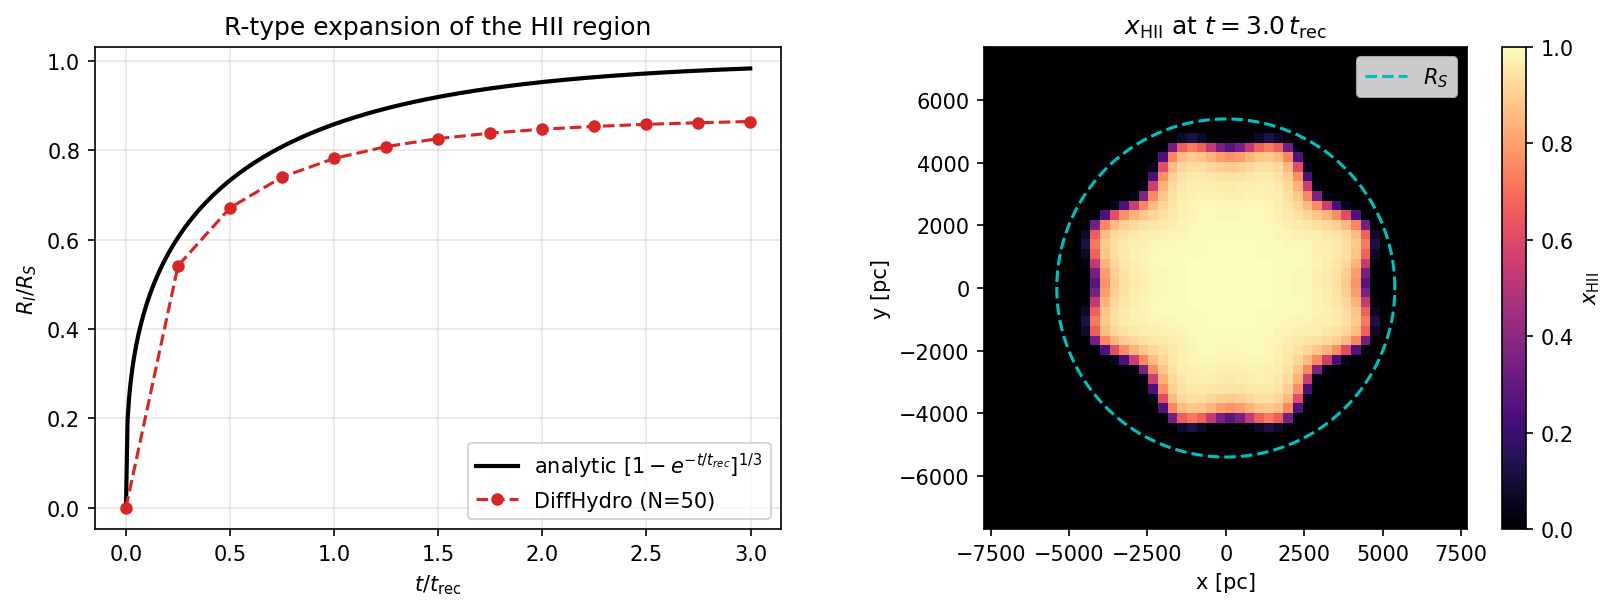
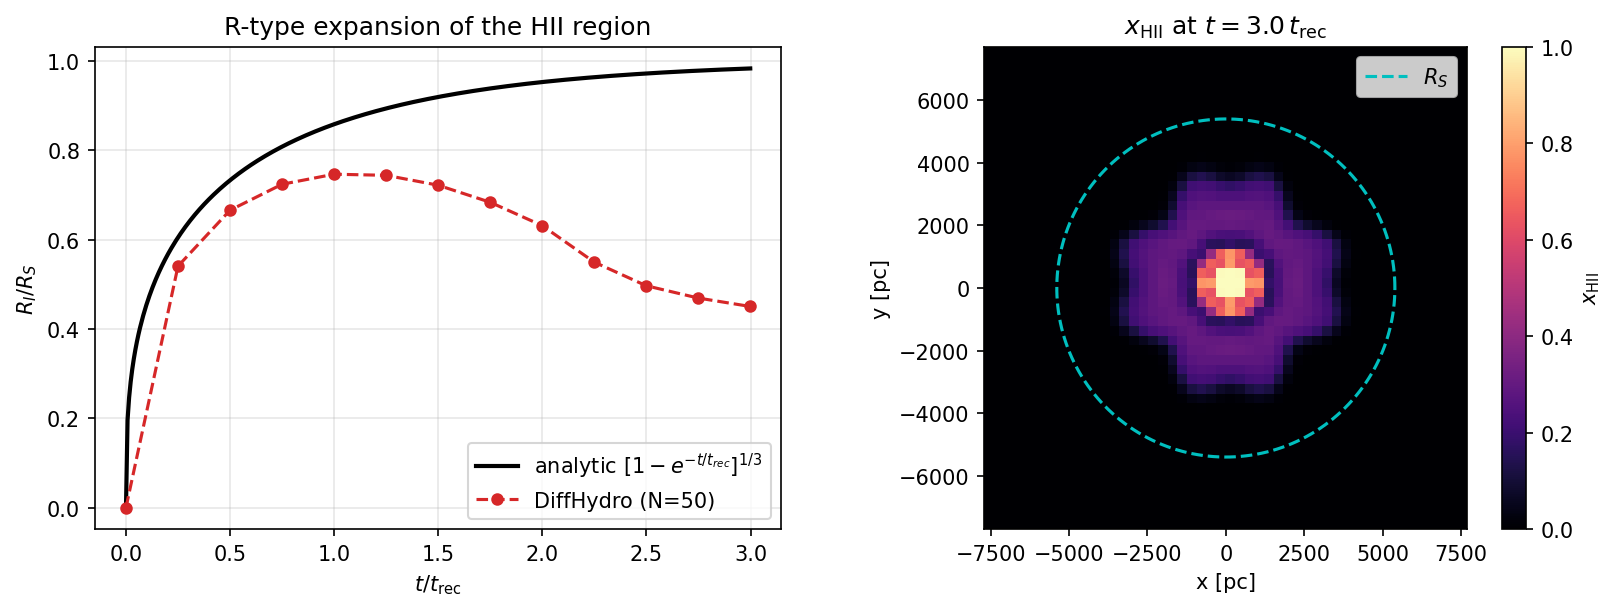
before gros changement avec le chat

diff --git a/diffhydro/physics/fraction_xHII.py b/diffhydro/physics/fraction_xHII.py
@@ -119,8 +119,153 @@ class HydrogenIonizationForce:
         return view.set_xHII(sol, x_new), params
 
 
+# class HydrogenPhotoChemistryForce:
+    # """Photon-CONSERVING coupled update of (N_gamma, F_gamma, x_HII).
+
+    # Why this exists
+    # ---------------
+    # Splitting the photon sink (in ``StellarRadiationForce.force``) from the
+    # ionization update (in :class:`HydrogenIonizationForce`) makes the result
+    # depend on the order of ``forces=[...]``: the sink runs first, so the
+    # ionization then reads an already-depleted N and produces fewer
+    # ionizations than the number of photons that were destroyed. The error is
+    # O(n_HI sigma c dt) and does NOT vanish with grid refinement, because
+    # refining the grid also refinexHII_weighted=True,s dt at fixed CFL only linearly while the
+    # absorption per cell stays optically thick. Measured on the Iliev+2006
+    # Test 1 setup it costs ~10 % on the ionization front radius.
+
+    # This force instead enforces, per step and per cell, the bookkeeping
+    # identity "one absorbed photon = one ionization":
+
+    #     N_abs   = N [1 - exp(-n_HI sigma c dt)]     photons actually absorbed
+    #     dx      = N_abs / n_H                        + collisional - recombination
+    #     N      -= N_abs (capped so dx cannot exceed 1 - x; the photons that
+    #               would have over-ionized the cell are NOT destroyed)
+    #     F      *= exp(-n_HI sigma c dt)              eq. (26')
+
+    # Use it INSTEAD of the (StellarRadiationForce chemistry sink +
+    # HydrogenIonizationForce) pair, i.e. build the stellar force with
+    # ``chemistry=False`` so it only injects photons.
+    # """
+
+    # def __init__(
+    #     self,
+    #     stellar_force,
+    #     case: str = "B",
+    #     collisional: bool = True,
+    #     b_rec: float | None = None,
+    #     max_frac: float = 0.9,
+    #     frequency: float = hchem.NU_HI_CGS,
+    #     f_max: float | None = None,
+    #     view: HydrogenStateView | None = None,
+    # ):
+    #     self.sf = stellar_force
+    #     self.case = case.upper()
+    #     self.collisional = bool(collisional)
+    #     self.b_rec = (1.0 if self.case == "A" else 0.0) if b_rec is None else float(b_rec)
+    #     self.max_frac = float(max_frac)
+    #     self.view = view if view is not None else _view_from_stellar_force(stellar_force)
+    #     self.sigma_HI_cgs = float(
+    #         hchem.sigma_HI_powerlaw_cgs(nu=frequency, nu0=hchem.NU_HI_CGS)
+    #     )
+    #     self.f_max = getattr(stellar_force, "beam_reduced_flux", 0.95) if f_max is None else f_max
+
+    # def alpha_HII(self, T_K):
+    #     return (hchem.alpha_A_HII_cgs(T_K) if self.case == "A"
+    #             else hchem.alpha_B_HII_cgs(T_K))
+
+    # def timestep(self, sol):
+    #     return jnp.inf
+
+    # def force(self, i, sol, params, dt):
+    #     view = self.view
+    #     dt_s = view.dt_cgs(dt)
+    #     c_cgs = view.c_interaction_cgs
+
+    #     x = view.xHII(sol)
+    #     T_K = view.temperature_K(sol, x)
+    #     n_H, n_HI, n_HII, n_e = view.number_densities_cgs(sol, x)
+    #     N_cgs = view.photon_density_cgs(sol)
+
+    #     # --- absorbed photons over dt (exact for a frozen n_HI) -----------
+    #     # The requested "at most 90 % of N per step" limiter is applied HERE,
+    #     # to the absorption itself, so that the photon budget removed from N
+    #     # and the ionizations produced from it stay exactly equal (applying
+    #     # it afterwards to dN would destroy that identity).
+    #     k = n_HI * self.sigma_HI_cgs * c_cgs                  # s^-1
+    #     absorbed_frac = jnp.minimum(-jnp.expm1(-k * dt_s), self.max_frac)
+    #     N_abs = N_cgs * absorbed_frac
+
+    #     # --- ionizations that these photons can actually produce ----------
+    #     n_H_safe = jnp.maximum(n_H, hchem.tiny_like(sol))
+    #     dx_photo_wanted = N_abs / n_H_safe
+    #     headroom = self.max_frac * (1.0 - x)
+    #     dx_photo = jnp.minimum(dx_photo_wanted, headroom)
+    #     # photons in excess of what the cell can absorb are NOT destroyed
+    #     N_abs_eff = dx_photo * n_H
+
+    #     # --- collisional ionization and recombination ---------------------
+    #     dx_coll = ((1.0 - x) * hchem.beta_HI_cgs(T_K) * n_e * dt_s
+    #                if self.collisional else 0.0)
+    #     dx_rec = -x * self.alpha_HII(T_K) * n_e * dt_s
+    #     dx_other = dx_coll + dx_rec
+    #     dx_other = jnp.where(
+    #         dx_other > 0.0,
+    #         jnp.minimum(dx_other, self.max_frac * (1.0 - x - dx_photo)),
+    #         jnp.maximum(dx_other, -self.max_frac * x),
+    #     )
+
+    #     x_new = jnp.clip(x + dx_photo + dx_other, 0.0, 1.0)
+
+    #     # --- radiation field ----------------------------------------------
+    #     # diffuse recombination photons (case A only)
+    #     S = self.b_rec * (hchem.alpha_A_HII_cgs(T_K)
+    #                       - hchem.alpha_B_HII_cgs(T_K)) * n_HII * n_e
+    #     # N_abs_eff <= max_frac * N by construction, so N stays > 0 without
+    #     # any further clamping -- which is what keeps the scheme exactly
+    #     # photon conserving.
+    #     dN_cgs = -N_abs_eff + S * dt_s
+
+    #     sol = view.add_photons_cgs(sol, dN_cgs)
+    #     sol = view.set_xHII(sol, x_new)
+
+    #     # flux sink, eq. (26'), then M1 cone
+    #     decay = jnp.exp(-k * dt_s)
+    #     for j in view.idx_F:
+    #         sol = sol.at[j].multiply(decay)
+    #     Fx, Fy, Fz = hchem.limit_m1_flux_cone(
+    #         sol[view.idx_N], *[sol[j] for j in view.idx_F],
+    #         c=self.sf.light_speed, f_max=self.f_max,
+    #     )
+    #     for j, F in zip(view.idx_F, (Fx, Fy, Fz)):
+    #         sol = sol.at[j].set(F)
+    #     return sol, params
+
+
+def _view_from_stellar_force(sf) -> HydrogenStateView:
+    """Build a :class:`HydrogenStateView` matching a StellarRadiationForce."""
+    hydro_eq = getattr(sf, "hydro_eq", None)
+    gamma = getattr(hydro_eq, "gamma", 5.0 / 3.0)
+    idx_mom = getattr(sf, "idx_mom")
+    if isinstance(idx_mom, slice):
+        idx_mom = tuple(range(idx_mom.start, idx_mom.stop))
+    return HydrogenStateView(
+        cu=sf.cu,
+        gamma=gamma,
+        idx_N=0,
+        idx_F=(1, 2, 3),
+        idx_xHII=sf.idx_xHII,
+        idx_rho=sf.idx_rho,
+        idx_mom=tuple(idx_mom),
+        idx_Etot=sf.idx_energy,
+        xHII_weight_idx=sf.idx_rho,
+        X_H=getattr(sf, "X_H", 1.0),
+        light_speed_code=getattr(sf, "light_speed", None),
+    )
+
+
 class HydrogenPhotoChemistryForce:
-    """Photon-CONSERVING coupled update of (N_gamma, F_gamma, x_HII).
+    """Photon-CONSERVING coupled update of (N_gamma, F_gamma, x_HII, E_th).
 
     Why this exists
     ---------------
@@ -130,7 +275,7 @@ class HydrogenPhotoChemistryForce:
     ionization then reads an already-depleted N and produces fewer
     ionizations than the number of photons that were destroyed. The error is
     O(n_HI sigma c dt) and does NOT vanish with grid refinement, because
-    refining the grid also refinexHII_weighted=True,s dt at fixed CFL only linearly while the
+    refining the grid also refines dt at fixed CFL only linearly while the
     absorption per cell stays optically thick. Measured on the Iliev+2006
     Test 1 setup it costs ~10 % on the ionization front radius.
 
@@ -143,9 +288,21 @@ class HydrogenPhotoChemistryForce:
                   would have over-ionized the cell are NOT destroyed)
         F      *= exp(-n_HI sigma c dt)              eq. (26')
 
+    NEW: the same ``N_abs_eff`` (photons that actually produced an
+    ionization, after the cell-saturation cap) is now also used to deposit
+    photoheating, so the energy budget and the ionization budget can never
+    drift apart -- one absorbed photon always contributes the same excess
+    energy (mean_photon_energy_eV - 13.6 eV) to E_th, regardless of how the
+    cap redistributed the ionization vs. the raw absorption. Collisional
+    ionization cooling, collisional excitation cooling, case A/B
+    recombination cooling, bremsstrahlung and Compton cooling (eq. A17) are
+    then applied on top with an independent explicit-Euler + positivity
+    limiter, exactly as in :class:`HeatCoolForce_basic`.
+
     Use it INSTEAD of the (StellarRadiationForce chemistry sink +
-    HydrogenIonizationForce) pair, i.e. build the stellar force with
-    ``chemistry=False`` so it only injects photons.
+    HydrogenIonizationForce + HeatCoolForce_basic) trio, i.e. build the
+    stellar force with ``chemistry=False`` so it only injects photons, and
+    do NOT add a separate HeatCoolForce_basic to ``forces=[...]``.
     """
 
     def __init__(
@@ -158,6 +315,12 @@ class HydrogenPhotoChemistryForce:
         frequency: float = hchem.NU_HI_CGS,
         f_max: float | None = None,
         view: HydrogenStateView | None = None,
+        # -- thermodynamics (eq. A17), new -------------------------------
+        include_heating: bool = True,
+        include_cooling: bool = True,
+        mean_photon_energy_eV: float = hchem.E_HI_EV,
+        expansion_factor: float = 1.0,
+        energy_max_frac: float = 0.5,
     ):
         self.sf = stellar_force
         self.case = case.upper()
@@ -169,6 +332,17 @@ class HydrogenPhotoChemistryForce:
             hchem.sigma_HI_powerlaw_cgs(nu=frequency, nu0=hchem.NU_HI_CGS)
         )
         self.f_max = getattr(stellar_force, "beam_reduced_flux", 0.95) if f_max is None else f_max
+
+        # -- thermodynamics config --------------------------------------
+        self.include_heating = bool(include_heating)
+        self.include_cooling = bool(include_cooling)
+        self.mean_photon_energy_eV = float(mean_photon_energy_eV)
+        self.expansion_factor = float(expansion_factor)
+        self.energy_max_frac = float(energy_max_frac)
+        # excess energy per absorbed photon, erg -- see hchem.photoheating_rate_cgs
+        self._excess_erg_per_photon = (
+            (self.mean_photon_energy_eV - hchem.E_HI_EV) * hchem.EV_CGS
+        )
 
     def alpha_HII(self, T_K):
         return (hchem.alpha_A_HII_cgs(T_K) if self.case == "A"
@@ -239,26 +413,36 @@ class HydrogenPhotoChemistryForce:
         )
         for j, F in zip(view.idx_F, (Fx, Fy, Fz)):
             sol = sol.at[j].set(F)
+
+        # --- thermodynamics, eq. (A17) --------------------------------
+        # Heating: reuse N_abs_eff (the SAME photons that produced dx_photo)
+        # so that the energy budget can never drift from the ionization
+        # budget -- this is the coupled-scheme guarantee extended to E_th.
+        # With a single group AT the threshold (mean_photon_energy_eV =
+        # 13.6 eV) this is identically zero, exactly as documented in
+        # hchem.photoheating_rate_cgs.
+        if self.include_heating:
+            dE_heat_cgs = N_abs_eff * self._excess_erg_per_photon
+        else:
+            dE_heat_cgs = 0.0
+
+        # Cooling: zeta_HI+psi_HI (collisional ion./excitation), eta^{A|B}
+        # (recombination), theta_HII (bremsstrahlung), varpi (Compton) --
+        # eq. (A17), evaluated at the PRE-update state (explicit Euler,
+        # consistent with the rest of this force).
+        if self.include_cooling:
+            L_cgs = hchem.cooling_rate_cgs(
+                T_K, n_HI, n_HII, n_e,
+                a=self.expansion_factor, case=self.case,
+            )
+            dE_cool_cgs = hchem.limited_explicit_update(
+                view.thermal_energy_code(sol) * view.P_cgs,
+                -L_cgs, dt_s, max_frac=self.energy_max_frac,
+            )
+        else:
+            dE_cool_cgs = 0.0
+
+        dE_th_cgs = dE_heat_cgs + dE_cool_cgs
+        sol = view.add_thermal_energy_cgs(sol, dE_th_cgs)
+
         return sol, params
-
-
-def _view_from_stellar_force(sf) -> HydrogenStateView:
-    """Build a :class:`HydrogenStateView` matching a StellarRadiationForce."""
-    hydro_eq = getattr(sf, "hydro_eq", None)
-    gamma = getattr(hydro_eq, "gamma", 5.0 / 3.0)
-    idx_mom = getattr(sf, "idx_mom")
-    if isinstance(idx_mom, slice):
-        idx_mom = tuple(range(idx_mom.start, idx_mom.stop))
-    return HydrogenStateView(
-        cu=sf.cu,
-        gamma=gamma,
-        idx_N=0,
-        idx_F=(1, 2, 3),
-        idx_xHII=sf.idx_xHII,
-        idx_rho=sf.idx_rho,
-        idx_mom=tuple(idx_mom),
-        idx_Etot=sf.idx_energy,
-        xHII_weight_idx=sf.idx_rho,
-        X_H=getattr(sf, "X_H", 1.0),
-        light_speed_code=getattr(sf, "light_speed", None),
-    )

diff --git a/examples/RT/stromgren_validation.py b/examples/RT/stromgren_validation.py
@@ -56,7 +56,7 @@ print("Backend:", jax.default_backend())
 # ---------------------------------------------------------------------------
 # Iliev+2006 Test 1 parameters
 # ---------------------------------------------------------------------------
-N = int(os.environ.get("N", 200))
+N = int(os.environ.get("N", 50))
 n_H_cgs = 1.0e-3                 # cm^-3
 T_K = 1.0e4                      # K, isothermal
 Q_phot = 5.0e48                  # ionizing photons / s
